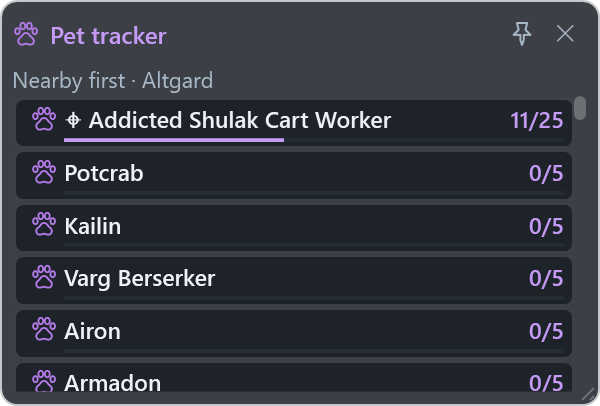
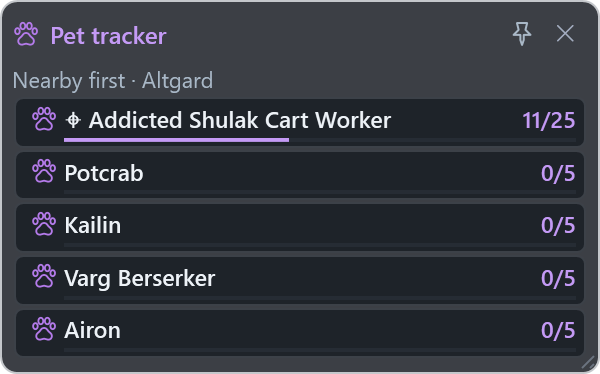
Cap pet recommendations and hide completed pets in every view

diff --git a/src/AionMeter.Cli/Program.cs b/src/AionMeter.Cli/Program.cs
@@ -15,6 +15,7 @@ var data = GameData.Load(dataDir, langAt >= 0 && langAt + 1 < args.Length ? args
 return args.FirstOrDefault() switch
 {
     "petpositions" when args.Length>1=>PetPositions(args[1]),
+    "petclientpositions" when args.Length>1=>PetClientPositions(args[1]),
     "petscan" when args.Length > 1 => PetScan(args[1]),
     "petverify" when args.Length > 2 => PetVerify(args[1],args[2]),
     "devices" => Devices(),
@@ -36,12 +37,77 @@ return args.FirstOrDefault() switch
     _ => Usage(),
 };
 
+int PetClientPositions(string path)
+{
+    var anchors=new List<float[]>();
+    using(var replay=new PcapReplaySource(data,path,false))
+    {
+        replay.Pipeline.Parser.Tap=(_,op,body)=>
+        {
+            if(op==Opcodes.Teleport && body.Length==24)
+                anchors.Add([System.Buffers.Binary.BinaryPrimitives.ReadSingleLittleEndian(body[6..]),System.Buffers.Binary.BinaryPrimitives.ReadSingleLittleEndian(body[10..]),System.Buffers.Binary.BinaryPrimitives.ReadSingleLittleEndian(body[14..])]);
+        };
+        replay.RunToEnd();
+    }
+    anchors=anchors.Where(p=>p.All(float.IsFinite)).ToList();
+    var matches=new List<float[]>();var candidateCount=0;long byteCount=0;var segmentCount=0;
+    var lengths=new Dictionary<int,int>();var prefixes=new List<string>();
+    var streams=new Dictionary<FlowKey,TcpReassembler>();
+    using var reader=new SharpPcap.LibPcap.CaptureFileReaderDevice(path);reader.Open(new SharpPcap.DeviceConfiguration());
+    while(reader.GetNextPacket(out var packet)==SharpPcap.GetPacketStatus.PacketRead)
+    {
+        if(!SegmentReader.TryRead(packet.GetPacket(),out var segment)||segment.Key.DstPort!=PacketPipeline.GamePort||segment.Payload.Length==0)continue;
+        segmentCount++;
+        lengths[segment.Payload.Length]=lengths.GetValueOrDefault(segment.Payload.Length)+1;
+        if(prefixes.Count<8)prefixes.Add(Wire.Hex(segment.Payload,32));
+        if(!streams.TryGetValue(segment.Key,out var stream))
+        {
+            byte[] tail=[];
+            stream=new TcpReassembler(memory=>
+            {
+                byteCount+=memory.Length;
+                var bytes=new byte[tail.Length+memory.Length];tail.CopyTo(bytes,0);memory.Span.CopyTo(bytes.AsSpan(tail.Length));
+                for(var at=0;at+12<=bytes.Length;at++)
+                {
+                    var x=System.Buffers.Binary.BinaryPrimitives.ReadSingleLittleEndian(bytes.AsSpan(at));
+                    var y=System.Buffers.Binary.BinaryPrimitives.ReadSingleLittleEndian(bytes.AsSpan(at+4));
+                    var z=System.Buffers.Binary.BinaryPrimitives.ReadSingleLittleEndian(bytes.AsSpan(at+8));
+                    if(anchors.Any(p=>Math.Abs(x-p[0])<25000 && Math.Abs(y-p[1])<25000 && Math.Abs(z-p[2])<10000))
+                    {candidateCount++;if(matches.Count<10)matches.Add([x,y,z]);}
+                }
+                tail=bytes[^Math.Min(11,bytes.Length)..];
+            },()=>tail=[]);
+            streams[segment.Key]=stream;
+        }
+        stream.Push(segment.Seq,segment.Payload,segment.TimeMs);
+    }
+    Console.WriteLine(System.Text.Json.JsonSerializer.Serialize(new{anchorCount=anchors.Count,segmentCount,byteCount,candidateCount,samples=matches,
+        lengths=lengths.OrderByDescending(p=>p.Value).Take(10),prefixes}));
+    return 0;
+}
+
 int PetPositions(string path)
 {
     using var replay=new PcapReplaySource(data,path,false);
     replay.Pipeline.Parser.DecodePetPositions=true;
     var identity=new LiveIdentity();
     var own=new HashSet<uint>();var maps=new HashSet<int>();
+    var ownPackets=new Dictionary<ushort,(int Count,string Sample)>();var teleports=new List<float[]>();
+    var ownPositionCandidates=new List<object>();
+    replay.Pipeline.Parser.Tap=(time,op,body)=>
+    {
+        var at=0;
+        if(Wire.TryVarint(body,ref at,out var actor)&&own.Contains(actor))
+        {
+            var previous=ownPackets.GetValueOrDefault(op);
+            ownPackets[op]=(previous.Count+1,op is >=0x1a37 and <=0x3037?Wire.Hex(body,64):"");
+            if(op==0x2a38 && body.Length>=12)
+                ownPositionCandidates.Add(new{timeMs=time,opcode="2a38",length=body.Length,
+                    xyz=new[]{System.Buffers.Binary.BinaryPrimitives.ReadSingleLittleEndian(body[^12..]),System.Buffers.Binary.BinaryPrimitives.ReadSingleLittleEndian(body[^8..]),System.Buffers.Binary.BinaryPrimitives.ReadSingleLittleEndian(body[^4..])}});
+        }
+        if(op==Opcodes.Teleport && body.Length==24)
+            teleports.Add([System.Buffers.Binary.BinaryPrimitives.ReadSingleLittleEndian(body[6..]),System.Buffers.Binary.BinaryPrimitives.ReadSingleLittleEndian(body[10..]),System.Buffers.Binary.BinaryPrimitives.ReadSingleLittleEndian(body[14..])]);
+    };
     var positions=new Dictionary<uint,List<float[]>>();var npcs=new Dictionary<uint,NpcSeenEvent>();
     replay.EventDecoded+=e=>
     {
@@ -56,7 +122,8 @@ int PetPositions(string path)
         }
     };
     var count=replay.RunToEnd();
-    Console.WriteLine(System.Text.Json.JsonSerializer.Serialize(new {packets=count,maps=maps.ToArray(),ownActors=own.ToArray(),
+    Console.WriteLine(System.Text.Json.JsonSerializer.Serialize(new {packets=count,maps=maps.ToArray(),ownActors=own.ToArray(),teleports,ownPositionCandidates,
+        ownPackets=ownPackets.Select(p=>new{opcode=p.Key.ToString("x4"),count=p.Value.Count,sample=p.Value.Sample}),
         movers=positions.Select(p=>new {actor=p.Key,own=own.Contains(p.Key),npc=npcs.GetValueOrDefault(p.Key)?.NpcCode??0,
             count=p.Value.Count,first=p.Value.First(),last=p.Value.Last(),min=new[]{p.Value.Min(x=>x[0]),p.Value.Min(x=>x[1]),p.Value.Min(x=>x[2])},max=new[]{p.Value.Max(x=>x[0]),p.Value.Max(x=>x[1]),p.Value.Max(x=>x[2])}}).OrderByDescending(p=>p.count).Take(30),
         spawns=npcs.Values.Where(n=>n.X!=0||n.Y!=0||n.Z!=0).Select(n=>new{npc=n.NpcCode,n.X,n.Y,n.Z}).Take(30)},new System.Text.Json.JsonSerializerOptions{WriteIndented=true}));

diff --git a/src/AionMeter.App/Services/InteractionChecks.cs b/src/AionMeter.App/Services/InteractionChecks.cs
@@ -616,8 +616,8 @@ internal static class InteractionChecks
             {meter.Pets.Observe(new Core.Events.NpcSeenEvent(5,actor,code));meter.Pets.Observe(new Core.Events.DamageEvent(6,1,actor,17010000,100,Core.Events.HitFlags.None));}
             petWindow.Refresh();
             var latestPets=petList.Items.OfType<Windows.PetTrackerWindow.Row>().ToArray();
-            Check(latestPets.Length==3 && latestPets.Select(p=>p.Definition.Id).SequenceEqual(new[]{1040,1047,1176}),"Pet panel keeps only the three most recently attacked pets in order");
-            Check(latestPets.Single(p=>p.Definition.Id==1176).Progress=="MAX" && latestPets.Single(p=>p.Definition.Id==1176).Fill==1,"Maxed pets show MAX with a full progress bar");
+            Check(latestPets.Length==3 && latestPets.Select(p=>p.Definition.Id).SequenceEqual(new[]{1040,1047,1193}),"Pet panel keeps the three most recent incomplete attacked pets in order");
+            Check(latestPets.All(p=>p.Definition.Id!=1176 && p.Progress!="MAX"),"Completed pets are hidden even in the attacked-target fallback");
             petWindow.SetDisplayOnly(true);
             Check(petWindow.MinHeight==26,"Locked attacked-pet display can shrink to a single compact row");
             Check(((System.Windows.Controls.Border)petWindow.Content).Background==System.Windows.Media.Brushes.Transparent,"Locked Pet tracker hides its window background");
@@ -632,11 +632,14 @@ internal static class InteractionChecks
             Check(petList.Items.OfType<Windows.PetTrackerWindow.Row>().Single().Progress=="~11/25","Restored counters are visibly marked last-known until fresh login data arrives");
             meter.Pets.Observe(new Core.Game.PetCollectionEvent(24,new Dictionary<int,Core.Game.PetState>{{1193,new(1193,1,12)}}));petWindow.Refresh();
             Check(petList.Items.OfType<Windows.PetTrackerWindow.Row>().Single().Progress=="12/25","Fresh login counters replace restored values and remove the cache marker");
+            meter.Pets.Observe(new Core.Game.PetSoulEvent(25,new Dictionary<int,int>{{1193,88}}));petWindow.Refresh();
+            Check(petList.Items.Count==0,"A pet reaching level three disappears immediately after its final soul loot");
+            meter.Pets.Observe(new Core.Game.PetCollectionEvent(26,new Dictionary<int,Core.Game.PetState>{{1193,new(1193,1,12)}}));
             var petLocations=PetCatalog.Locations(MeterService.DataDirectory);
             Check(petLocations.Select(l=>l.PetId).Distinct().Count()==156 && petLocations.All(l=>petCatalog.Any(p=>p.Id==l.PetId) && l.MapId is 1010 or 1110 or 20
                 && l.Points.All(p=>double.IsFinite(p.X)&&double.IsFinite(p.Y))),"Offline pet locations contain only matched known pets and valid source-map coordinates");
             meter.Pets.Observe(new Core.Events.ZoneChangedEvent(25,1110,"Altgard",false));petWindow.Refresh();
-            Check(petList.Items.Count>0 && meter.Pets.AttackedTargetId==0
+            Check(petList.Items.Count is >0 and <=5 && meter.Pets.AttackedTargetId==0
                 && petList.Items.OfType<Windows.PetTrackerWindow.Row>().All(p=>p.Progress!="MAX"),"The Pet tracker recommends incomplete current-region pets without any attack");
             meter.Pets.Observe(new Core.Events.NpcSeenEvent(DateTimeOffset.UtcNow.ToUnixTimeMilliseconds(),77,2400455));petWindow.Refresh();
             Check(petList.Items.OfType<Windows.PetTrackerWindow.Row>().First().Definition.Id==1193,"Freshly seen pet monsters move their pet to the top without an attack");

diff --git a/src/AionMeter.App/Windows/MeterControlsWindow.cs b/src/AionMeter.App/Windows/MeterControlsWindow.cs
@@ -81,8 +81,7 @@ internal sealed class MeterControlsWindow : Window
         _verticalFooter=new Grid {Margin=new(5,2,5,4),Visibility=Visibility.Collapsed};
         _verticalFooter.ColumnDefinitions.Add(new(){Width=GridLength.Auto});_verticalFooter.ColumnDefinitions.Add(new(){Width=new(1,GridUnitType.Star)});
         var root=new StackPanel();root.Children.Add(header);root.Children.Add(buttons);root.Children.Add(_verticalActions);root.Children.Add(_verticalFooter);
-        var updateButton=new Button {Content="Update!",Width=72,Height=26,FontFamily=new("Segoe UI"),FontSize=12,
-            Style=(Style)FindResource("GhostButton"),Foreground=ThemeColors.Brush("#C49AF5"),ToolTip=UiText.Current.TipUpdate};
+        var updateButton=CreateUpdateNoticeButton(this);
         updateButton.Click+=(_,_)=>overlay.OpenReadyUpdate();
         _updateNotice.Child=updateButton;_updateNotice.PlacementTarget=this;
         SetUpdateAvailable(update.Visibility==Visibility.Visible);
@@ -103,6 +102,15 @@ internal sealed class MeterControlsWindow : Window
             _horizontalSizing[item]=(item.Width,item.Height,item.Margin,item.HorizontalAlignment);
         SizeToContent=SizeToContent.Height;Height=double.NaN;ApplyLayout();
     }
+
+    internal static Button CreateUpdateNoticeButton(FrameworkElement resources)=>new()
+    {
+        Content="Update!",Width=72,Height=26,Padding=new Thickness(8,2,8,2),
+        FontFamily=new("Segoe UI"),FontSize=12,FontWeight=FontWeights.SemiBold,
+        Style=(Style)resources.FindResource("GhostButton"),
+        Background=ThemeColors.Brush("#223A2D"),BorderBrush=ThemeColors.Brush("#4FC18A"),Foreground=ThemeColors.Brush("#A4E8BD"),
+        UseLayoutRounding=true,SnapsToDevicePixels=true,ToolTip=UiText.Current.TipUpdate
+    };
 
     internal void SetUpdateAvailable(bool available){_updateAvailable=available;SyncUpdateNotice();}
     private void SyncUpdateNotice()

diff --git a/src/AionMeter.App/Windows/PetTrackerWindow.cs b/src/AionMeter.App/Windows/PetTrackerWindow.cs
@@ -101,11 +101,12 @@ public sealed class PetTrackerWindow:Window,IDisplayAppearance
         var now=DateTimeOffset.UtcNow.ToUnixTimeMilliseconds();
         var seenCodes=_meter.Pets.Nearby().Npcs.Where(n=>n.TimeMs<=now && now-n.TimeMs<=30000).Select(n=>n.NpcCode).ToHashSet();
         var nearbyPets=_catalog.Where(p=>p.Sources.Any(s=>seenCodes.Contains(s.NpcCode))||_meter.Pets.Farms(p.Id).Any(f=>seenCodes.Contains(f.NpcCode))).Select(p=>p.Id).ToHashSet();
-        var suggestions=PetRecommendations.Select(_locations,_meter.Pets.MapId,states,confirmed,nearbyPets,256);
+        var suggestions=PetRecommendations.Select(_locations,_meter.Pets.MapId,states,confirmed,nearbyPets);
         var region=_locations.FirstOrDefault(l=>l.MapId==_meter.Pets.MapId)?.Region;
         var byId=_catalog.ToDictionary(p=>p.Id);
         var pets=suggestions.Count>0?suggestions.Where(s=>byId.ContainsKey(s.PetId)).Select(s=>byId[s.PetId]).ToArray():
-            region is not null?[]:codes.SelectMany(npc=>_catalog.Where(p=>p.Sources.Any(s=>s.NpcCode==npc)||_meter.Pets.Farms(p.Id).Any(f=>f.NpcCode==npc))).DistinctBy(p=>p.Id).Take(3).ToArray();
+            region is not null?[]:codes.SelectMany(npc=>_catalog.Where(p=>p.Sources.Any(s=>s.NpcCode==npc)||_meter.Pets.Farms(p.Id).Any(f=>f.NpcCode==npc)))
+                .DistinctBy(p=>p.Id).Where(p=>!confirmed || states.GetValueOrDefault(p.Id,new(p.Id,0,0)).Level<3).Take(3).ToArray();
         _status.Text=!confirmed?T.Localize("Pet progress data not received yet."):
             suggestions.Count>0?T.Localize(nearbyPets.Overlaps(suggestions.Select(s=>s.PetId))?"Nearby first":"Pets in this region")+(region is null?"":" · "+region):
             region is not null?T.Localize("No incomplete pets with known locations in this region."):

diff --git a/src/AionMeter.App/Services/PolishChecks.cs b/src/AionMeter.App/Services/PolishChecks.cs
@@ -74,6 +74,13 @@ internal static class PolishChecks
             check(permanentPanel.UpdateNotice.IsOpen && permanentPanel.UpdateNotice.Child is Button {Content:"Update!"}
                 && WindowPresentation.PhysicalBounds(permanentPanel)==panelBeforeNotice,
                 "Update! opens in a separate popup above the panel without changing panel position or size");
+            var noticeButton=(Button)permanentPanel.UpdateNotice.Child;
+            noticeButton.ApplyTemplate();noticeButton.UpdateLayout();
+            var noticeText=Visuals(noticeButton).OfType<TextBlock>().First(t=>t.Text=="Update!");
+            noticeText.Measure(new Size(double.PositiveInfinity,double.PositiveInfinity));
+            check(noticeText.DesiredSize.Height<=noticeButton.ActualHeight-noticeButton.Padding.Top-noticeButton.Padding.Bottom-2
+                && ((System.Windows.Media.SolidColorBrush)noticeButton.Foreground).Color.G>((System.Windows.Media.SolidColorBrush)noticeButton.Foreground).Color.R,
+                "The green Update! notice has sufficient text height without clipping");
             permanentPanel.Hide();
             check(!permanentPanel.UpdateNotice.IsOpen,"Hiding the panel hides its separate update notice");
             permanentPanel.Show();

diff --git a/src/AionMeter.Core/Game/PetRecommendations.cs b/src/AionMeter.Core/Game/PetRecommendations.cs
@@ -8,7 +8,7 @@ public sealed record PetRecommendation(int PetId,bool Nearby,int Needed);
 public static class PetRecommendations
 {
     public static IReadOnlyList<PetRecommendation> Select(IEnumerable<PetMapLocation> locations,int mapId,
-        IReadOnlyDictionary<int,PetState> states,bool confirmed,IReadOnlySet<int> nearbyPets,int limit=3)
+        IReadOnlyDictionary<int,PetState> states,bool confirmed,IReadOnlySet<int> nearbyPets,int limit=5)
     {
         if(!confirmed)return [];
         return locations.Where(l=>mapId>0 && l.MapId==mapId).Select(l=>l.PetId).Concat(nearbyPets).Distinct()
@@ -16,6 +16,6 @@ public static class PetRecommendations
             .Where(p=>p.Level<3)
             .OrderByDescending(p=>nearbyPets.Contains(p.Id)).ThenBy(p=>p.Level)
             .ThenBy(p=>p.Needed(Math.Min(3,p.Level+1))).ThenBy(p=>p.Id)
-            .Take(Math.Clamp(limit,1,256)).Select(p=>new PetRecommendation(p.Id,nearbyPets.Contains(p.Id),p.Needed(p.Level+1))).ToArray();
+            .Take(Math.Clamp(limit,1,5)).Select(p=>new PetRecommendation(p.Id,nearbyPets.Contains(p.Id),p.Needed(p.Level+1))).ToArray();
     }
 }

diff --git a/tests/AionMeter.Tests/PetRecommendationTests.cs b/tests/AionMeter.Tests/PetRecommendationTests.cs
@@ -19,6 +19,14 @@ public class PetRecommendationTests
         Assert.Equal(new[]{1002,1003},result.Select(r=>r.PetId));Assert.Equal(15,result[0].Needed);Assert.True(result[0].Nearby);
     }
     [Fact] public void UnknownMapDoesNotRecommendOtherRegions()=>Assert.Empty(PetRecommendations.Select(Locations,0,new Dictionary<int,PetState>(),true,new HashSet<int>()));
+    [Theory][InlineData(5)][InlineData(256)]
+    public void FivePetCapStillPrioritizesNearbyAndExcludesCompleted(int requested)
+    {
+        var locations=Enumerable.Range(1001,10).Select(id=>new PetMapLocation(id,1010,"Verteron","Source",[]));
+        var states=new Dictionary<int,PetState>{{1001,new(1001,3,0)}};
+        var result=PetRecommendations.Select(locations,1010,states,true,new HashSet<int>{1010},requested);
+        Assert.Equal(5,result.Count);Assert.Equal(1010,result[0].PetId);Assert.DoesNotContain(result,r=>r.PetId==1001);
+    }
     [Fact] public void ChangingRegionAndDisconnectingClearOldTargetsAndPositions()
     {
         var pets=new PetCollection();pets.Observe(new SelfIdentifiedEvent(1,1,"Self",2305,GameClass.Cleric));

diff --git a/src/AionMeter.App/Services/SampleRenderer.cs b/src/AionMeter.App/Services/SampleRenderer.cs
@@ -84,6 +84,10 @@ public static class SampleRenderer
         Action refresh;
         switch (o.Window)
         {
+            case "update-notice":
+                var badgeResources=new MeterControlsWindow(meter.Settings,()=>{},()=>{});
+                host=new Window {Width=72,Height=26,Background=Brushes.Transparent,Content=MeterControlsWindow.CreateUpdateNoticeButton(badgeResources)};
+                refresh=()=>{};break;
             case "meter-controls":
             case "meter-controls-vertical":
             case "meter-controls-transparent":

diff --git a/README.md b/README.md
@@ -2,12 +2,12 @@
 
 A separate, always-on-top Windows DPS meter for **AION 2**, by Zerafithekitten. Track your own fights and confirmed party members in a compact dark gray interface with restrained purple accents and cat-paw branding.
 
-[Download Stable](https://github.com/Zerafithekitten/CatScratch/releases/latest) · [Download Beta](https://github.com/Zerafithekitten/CatScratch/releases/tag/v3.0.1-beta.24) · [Release history](https://github.com/Zerafithekitten/CatScratch/releases) · [Report a bug / request a feature](https://github.com/Zerafithekitten/CatScratch/issues/new/choose)
+[Download Stable](https://github.com/Zerafithekitten/CatScratch/releases/latest) · [Download Beta](https://github.com/Zerafithekitten/CatScratch/releases/tag/v3.0.1-beta.25) · [Release history](https://github.com/Zerafithekitten/CatScratch/releases) · [Report a bug / request a feature](https://github.com/Zerafithekitten/CatScratch/issues/new/choose)
 
 | Channel | Current version | What it includes |
 | --- | --- | --- |
 | **Stable** | **[v3.0.0](https://github.com/Zerafithekitten/CatScratch/releases/tag/v3.0.0)** | Complete tested Beta feature set: compact class-colored rows, central settings with separate Updates/Feedback tabs, position pins, overlay profiles, boss comparisons, compact recap, quiet game companion and safer preferences. |
-| **Beta** | [Last prerelease: v3.0.1-beta.24](https://github.com/Zerafithekitten/CatScratch/releases/tag/v3.0.1-beta.24) | Optional DPS meter display, custom interface colors and Mario Party, the 24-hour event timeline with persistent favorites, and HP-confirmed effective healing of others. |
+| **Beta** | [Last prerelease: v3.0.1-beta.25](https://github.com/Zerafithekitten/CatScratch/releases/tag/v3.0.1-beta.25) | Optional DPS meter display, custom interface colors and Mario Party, the 24-hour event timeline with persistent favorites, and HP-confirmed effective healing of others. |
 
 English is the default. German, Russian and French are also available. Screenshots show **v3.0.1-beta.9** with synthetic sample data; names and numbers are examples. Features exclusive to the current Beta are labeled below. Stable remains **v3.0.0**.
 
@@ -166,7 +166,7 @@ Saving is optional. Press the **save button after combat** to keep a full fight.
 
 **Settings > Pets** contains the pet module toggle, width and collection/level-up sound option. Save applies changes while Settings stays open; closing with X discards later unsaved edits; the pet overlay has a position pin instead of a settings gear.
 
-Use the **paw button in the control panel** to toggle the compact pet tracker. With confirmed collection data, the module recommends incomplete pets in the current supported region without an attack. Freshly observed, confirmed source monsters take priority and mark their pets with **⌖**. Region recommendations cover Verteron, Altgard and Chaotic Lower Reshanta; completed pets are excluded. The compact list scrolls and shows soul progress toward the next level. If no supported region or nearby source is known, the last three personally attacked sources remain available as a fallback, including **MAX** for completed pets. Soul loot updates the count after a kill.
+Use the **paw button in the control panel** to toggle the compact pet tracker. With confirmed collection data, the module recommends up to five incomplete pets in the current supported region without an attack. Freshly observed, confirmed source monsters take priority and mark their pets with **⌖**. Region recommendations cover Verteron, Altgard and Chaotic Lower Reshanta; completed pets are excluded. The compact list scrolls and shows soul progress toward the next level. If no supported region or nearby source is known, the last three personally attacked incomplete pets remain available as a fallback. Completed pets are hidden in every view and disappear as soon as their final soul loot confirms level 3. Soul loot updates the count after a kill.
 
 Progress is saved per character. A **~** prefix marks last-known counts until fresh login data arrives. If no baseline is saved, log into the character once while CatScratch is running; opening an already cached pet menu may not resend the collection. Recent completed local recordings can help recover a missing baseline.
 

diff --git a/AGENTS.md b/AGENTS.md
@@ -48,4 +48,6 @@ Self healing and Healing others in the personal-combat panel mean HP-confirmed e
 
 Settings Save applies and persists changes while keeping the same Settings window open. Only its X closes it and discards unsaved drafts; do not restore a closing Cancel button. Pet tracker width stays adjustable in Settings and using its own horizontal resize grip, preserving click-through and saved placement.
 
-Pet recommendations may use a confirmed map ID and fresh, server-announced source NPCs without attacks. Distinguish regional farm records from actual nearby sightings, exclude max-level pets only in recommendations, retain cached-progress markers and unknown baselines, and clear location context on map/character/capture changes. Unvalidated map pixels must never be displayed as exact live distances. Keep the original attacked-pet fallback when no supported location is known.
+Pet recommendations may use a confirmed map ID and fresh, server-announced source NPCs without attacks. Distinguish regional farm records from actual nearby sightings, exclude max-level pets in all Pet tracker views, including the attacked-target fallback, retain cached-progress markers and unknown baselines, and clear location context on map/character/capture changes. Unvalidated map pixels must never be displayed as exact live distances. Keep the original attacked-pet fallback when no supported location is known.
+
+CatScratch remains exclusively passive: do not add game-memory access for positioning. Pet recommendations are capped at five, prioritizing confirmed fresh nearby sources; do not describe them as the five closest by distance without reliable live position data.

diff --git a/data/patchnotes-en.md b/data/patchnotes-en.md
@@ -1,3 +1,9 @@
+## CatScratch v3.0.1-beta.25
+
+- Limited the Pet tracker to five recommendations, with fresh sources in sight taking priority over regional suggestions. No exact-distance ranking is implied.
+- Completed level-3 pets are now hidden in every Pet tracker view, including recently attacked sources, and disappear immediately when final soul loot confirms completion.
+- Made the separate Update! notice green and fixed its clipped text while preserving the control panel position and size.
+
 ## CatScratch v3.0.1-beta.24
 
 - Pet tracker now recommends incomplete pets in supported current regions without requiring an attack. Freshly seen source monsters take priority and mark their pets with a location symbol.
